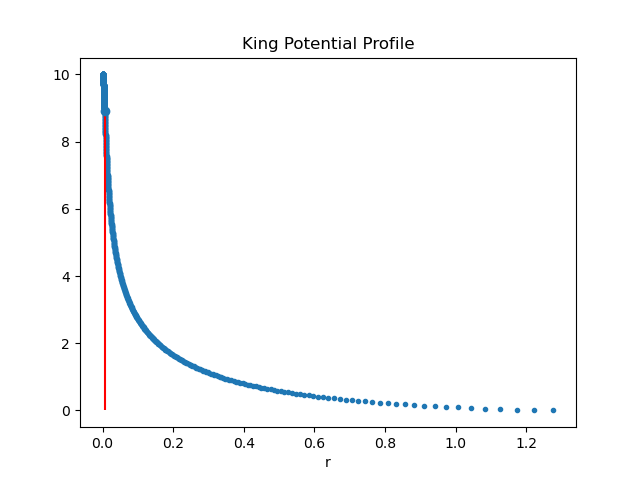
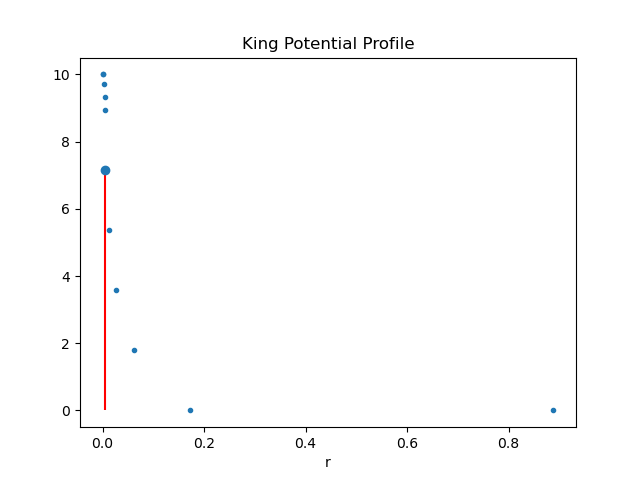
fixed end indexing error, initial index error remains elusive

diff --git a/development/exc.py b/development/exc.py
@@ -1,14 +1,109 @@
 import matplotlib.pyplot as plt
+import numpy as np
+from scipy import integrate
 from temp import temp 
 
-npoints=1000
-r,w,dwdr=temp.solve_king_potential_profile(10.,npoints)
-r_break = r[npoints//2]
-fig,axis=plt.subplots()
-axis.plot(r,w,'.')
-axis.stem([r_break],[w[npoints//2]],'r')
-# axis.plot(r,dwdr,'.')
-axis.set_xlabel('r')
-axis.set_title('King Potential Profile')
-plt.show()
-fig.savefig('king_potential_profile.png')
+
+def king_density_function_of_W(W):
+    sqrtW = np.sqrt(W)
+    return np.exp(W)*custom_erf(sqrtW) - (2.0/np.sqrt(np.pi))*sqrtW*(1.0 + 2.0*W/3.0 )
+    # return np.exp(W)*special.erf(sqrtW) - (2.0/np.sqrt(np.pi))*sqrtW*(1.0 + 2.0*W/3.0 )
+
+def king_scale_radius(W0):
+    rho0 = king_density_function_of_W(W0)
+    return np.sqrt(9/ (4*np.pi*rho0))
+
+def king_break_radius(W0):
+    r0=king_scale_radius(W0)
+    if W0 < 5.0:
+        rbreak = r0/100
+    else:
+        rbreak = r0
+    rbreak = r0
+    return rbreak
+
+def king_ode_in_r(r, y):
+    W = y[0]
+    dwdr = y[1]
+    rho = king_density_function_of_W(W)
+    if r <= 0: # numerical gaurd
+        d2wdr2 = 0.0
+    else:
+        d2wdr2 = -4*np.pi*rho - 2*dwdr/r 
+    return dwdr, d2wdr2
+
+def king_ode_in_w(t, y):
+    """ this one is weird, w is the independent variable, r is the dependent variable, and d/dr(INV(dw/dr)) is the second ode """ 
+    W = t 
+    r= y[0]
+    dwdr = y[1]
+    rho = king_density_function_of_W(W)
+    term1 =-(1.0/dwdr)
+    term2 = (4*np.pi*rho + 2.0*dwdr/r)
+    return 1.0/dwdr, term1*term2
+
+# Using a numerical approximation for the error function
+def custom_erf(x):
+    # constants
+    a1 =  0.254829592
+    a2 = -0.284496736
+    a3 =  1.421413741
+    a4 = -1.453152027
+    a5 =  1.061405429
+    p  =  0.3275911
+
+    # Save the sign of x
+    sign = 1 if x >= 0 else -1
+    x = abs(x)
+
+    # A&S formula 7.1.26
+    t = 1.0 / (1.0 + p * x)
+    y = 1.0 - (((((a5 * t + a4) * t) + a3) * t + a2) * t + a1) * t * np.exp(-x * x)
+    return sign * y
+
+def solve_king_density_profile(W0,npoints=1001):
+    # initialize 
+    r,W,dWdr = np.zeros(npoints),np.zeros(npoints),np.zeros(npoints)
+    rbreak=king_break_radius(W0)
+    r[:npoints//2] = np.linspace(0,rbreak,npoints//2)
+    limits = [0,rbreak]
+    initial_conditions = [W0,0]
+    sol = integrate.solve_ivp(king_ode_in_r, limits, initial_conditions, t_eval=r[:npoints//2],method="RK45",)
+    # extract the first half of the solution 
+    W[:npoints//2] = sol.y[0]
+    dWdr[:npoints//2] = sol.y[1]
+    Wmid = sol.y[0,-1]
+    # now, solve for r given W
+    W[npoints//2-1:] = np.linspace(Wmid,0,npoints-npoints//2 + 1)
+    limits = [Wmid,0]
+    initial_conditions = [rbreak,sol.y[1,-1]]
+    sol = integrate.solve_ivp(king_ode_in_w, limits, initial_conditions, t_eval=W[npoints//2:],method="RK45",)
+    r[npoints//2 :] = sol.y[0]
+    dWdr[npoints//2  :] = sol.y[1]
+    return r, np.array([W, dWdr])
+
+
+if __name__=="__main__":
+    npoints=1000
+    nprint=3
+    W0=11
+    r,w,dwdr=temp.solve_king_potential_profile(W0,npoints)
+
+    for i in range(nprint):
+        print("fortran", r[i],w[i],dwdr[i])
+
+    # now solve with python
+
+    r, [w,dwdr] = solve_king_density_profile(W0,npoints)
+    for i in range(nprint):
+        print("python", r[i],w[i],dwdr[i])
+
+    # r_break = r[npoints//2]
+    # fig,axis=plt.subplots()
+    # axis.plot(r,w,'.')
+    # axis.stem([r_break],[w[npoints//2]],'r')
+    # # axis.plot(r,dwdr,'.')
+    # axis.set_xlabel('r')
+    # axis.set_title('King Potential Profile')
+    # plt.show()
+    # fig.savefig('king_potential_profile.png')
